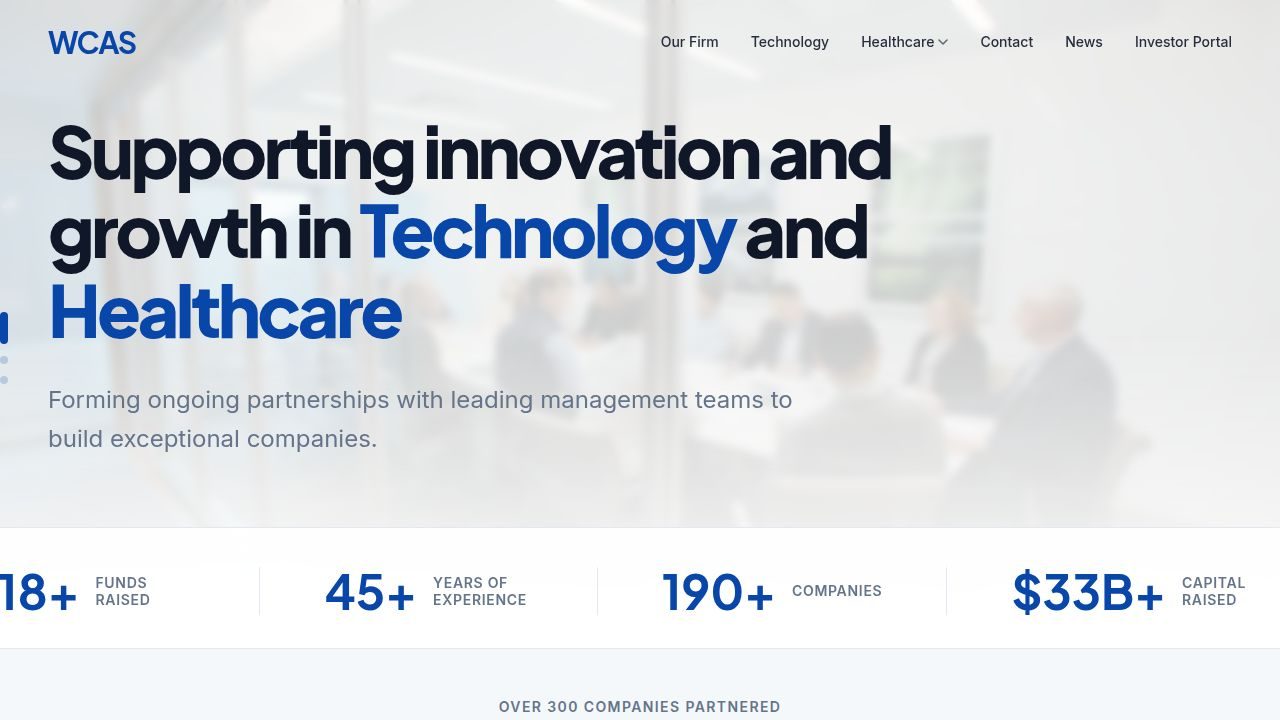
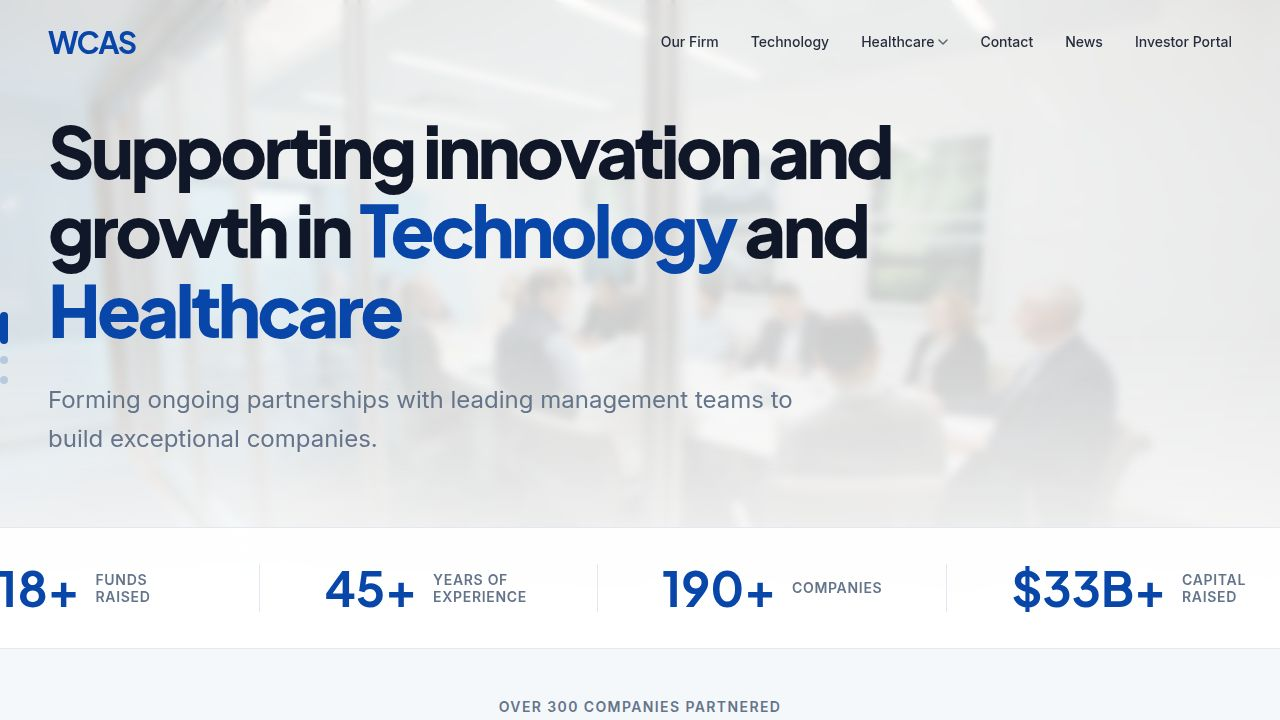
Update navigation links and add background image to news hero section
Corrected Navbar links for "News" and "Technology" and added a background image with an overlay to the News page hero section.

Replit-Commit-Author: Agent
Replit-Commit-Session-Id: 1946200e-5dd1-48e7-bc13-41e3c93ccf3a
Replit-Commit-Checkpoint-Type: full_checkpoint
Replit-Commit-Event-Id: d656062e-df15-4798-92d3-895c0822e90f
Replit-Commit-Screenshot-Url: https://storage.googleapis.com/screenshot-production-us-central1/07950341-7b77-4f47-849a-da712c7550fe/1946200e-5dd1-48e7-bc13-41e3c93ccf3a/ac2MKQN
Replit-Helium-Checkpoint-Created: true

diff --git a/client/src/pages/News.tsx b/client/src/pages/News.tsx
@@ -92,8 +92,16 @@ export default function News() {
       <Navbar />
       
       {/* Hero Section */}
-      <section className="pt-32 pb-20 px-6 bg-[#002759] text-white">
-        <div className="container mx-auto mt-16">
+      <section className="pt-32 pb-20 px-6 relative overflow-hidden text-white">
+        <div className="absolute inset-0 z-0">
+          <img 
+            src="https://images.unsplash.com/photo-1497366216548-37526070297c?q=80&w=2069&auto=format&fit=crop" 
+            alt="Office Background" 
+            className="w-full h-full object-cover opacity-40 mix-blend-luminosity"
+          />
+          <div className="absolute inset-0 bg-[#002759]/80"></div>
+        </div>
+        <div className="container mx-auto mt-16 relative z-10">
           <div className="max-w-4xl mx-auto text-center">
             <h1 className="text-5xl md:text-7xl font-heading font-bold mb-6">
               News & Perspectives

diff --git a/client/src/components/layout/Navbar.tsx b/client/src/components/layout/Navbar.tsx
@@ -16,7 +16,7 @@ export function Navbar() {
 
   const navLinks = [
     { name: "Our Firm", href: "/#firm" },
-    { name: "News", href: "/technology" },
+    { name: "Technology", href: "/technology" },
     { 
       name: "Healthcare", 
       href: "/#healthcare",
@@ -25,7 +25,7 @@ export function Navbar() {
       ]
     },
     { name: "Contact", href: "/#contact" },
-    { name: "News", href: "/#news" },
+    { name: "News", href: "/news" },
     { name: "Investor Portal", href: "/#investor" },
   ];
 